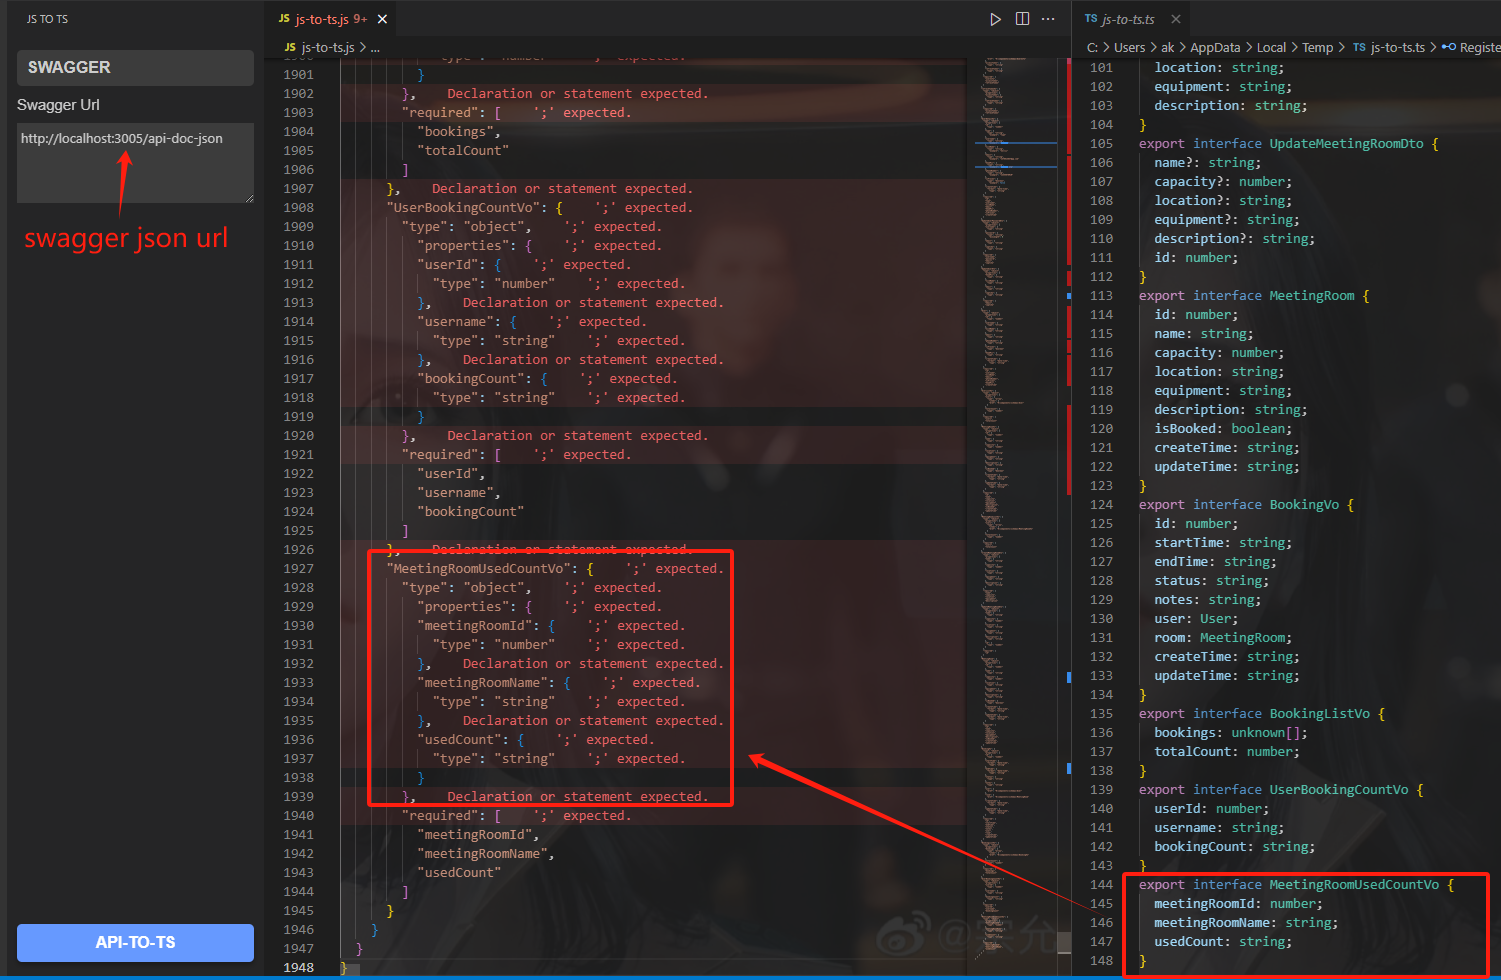
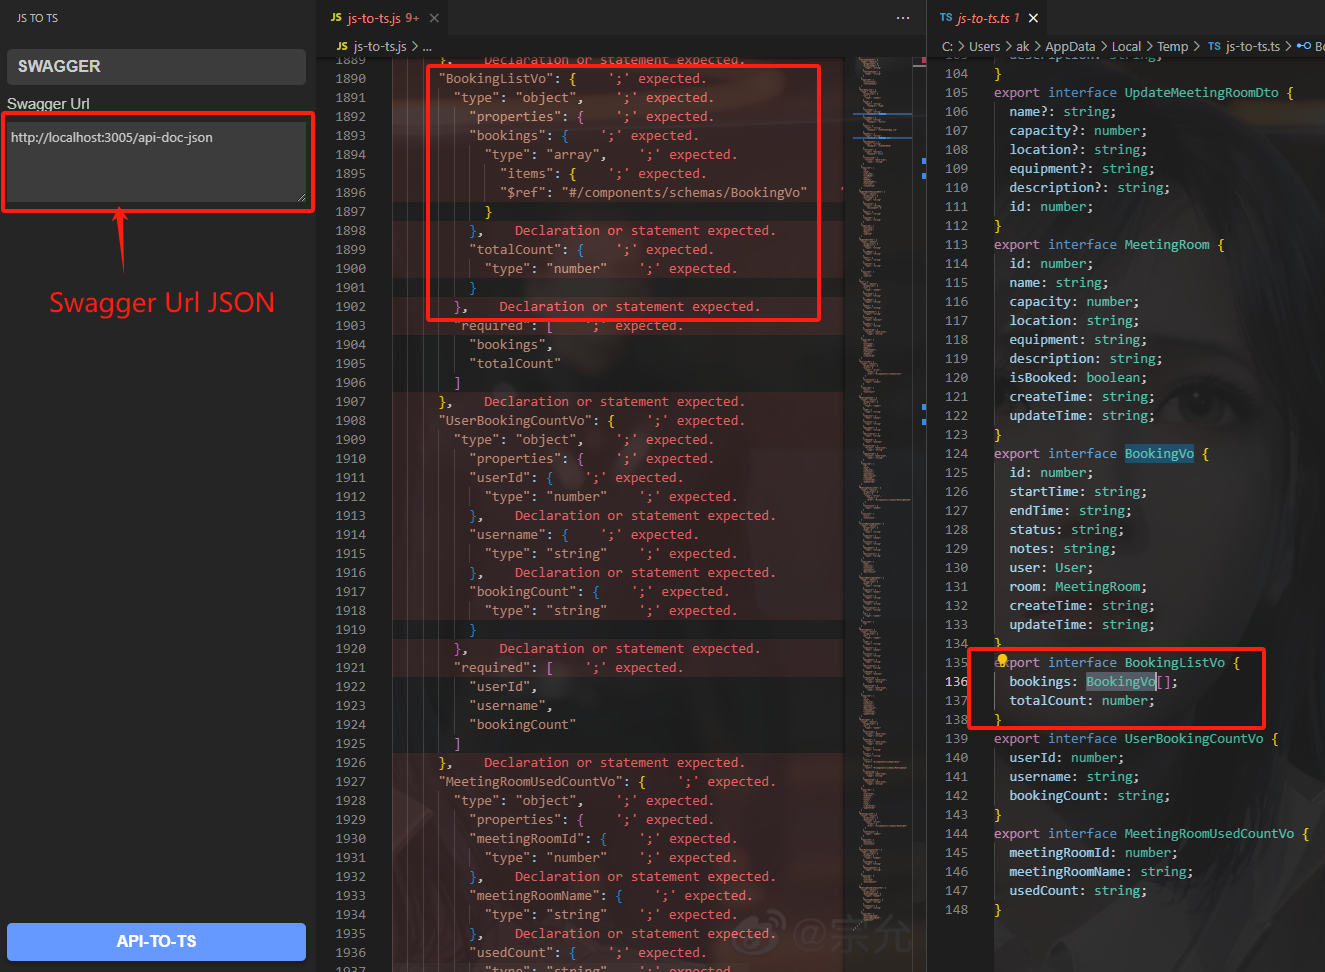
docs: update changelog

Changed region(s): [[0.0, 0.0, 1.0, 1.0], [0.0, 0.0, 0.0619, 0.0309]]

diff --git a/CHANGELOG.md b/CHANGELOG.md
@@ -1,3 +1,6 @@
+### 0.6.6 (2023-12-19)
+1. 支持swagger中的`数组`和`对象`类型
+
 ### 0.6.5 (2023-12-19)
 1. 不忽略`node_modules`目录文件
 
